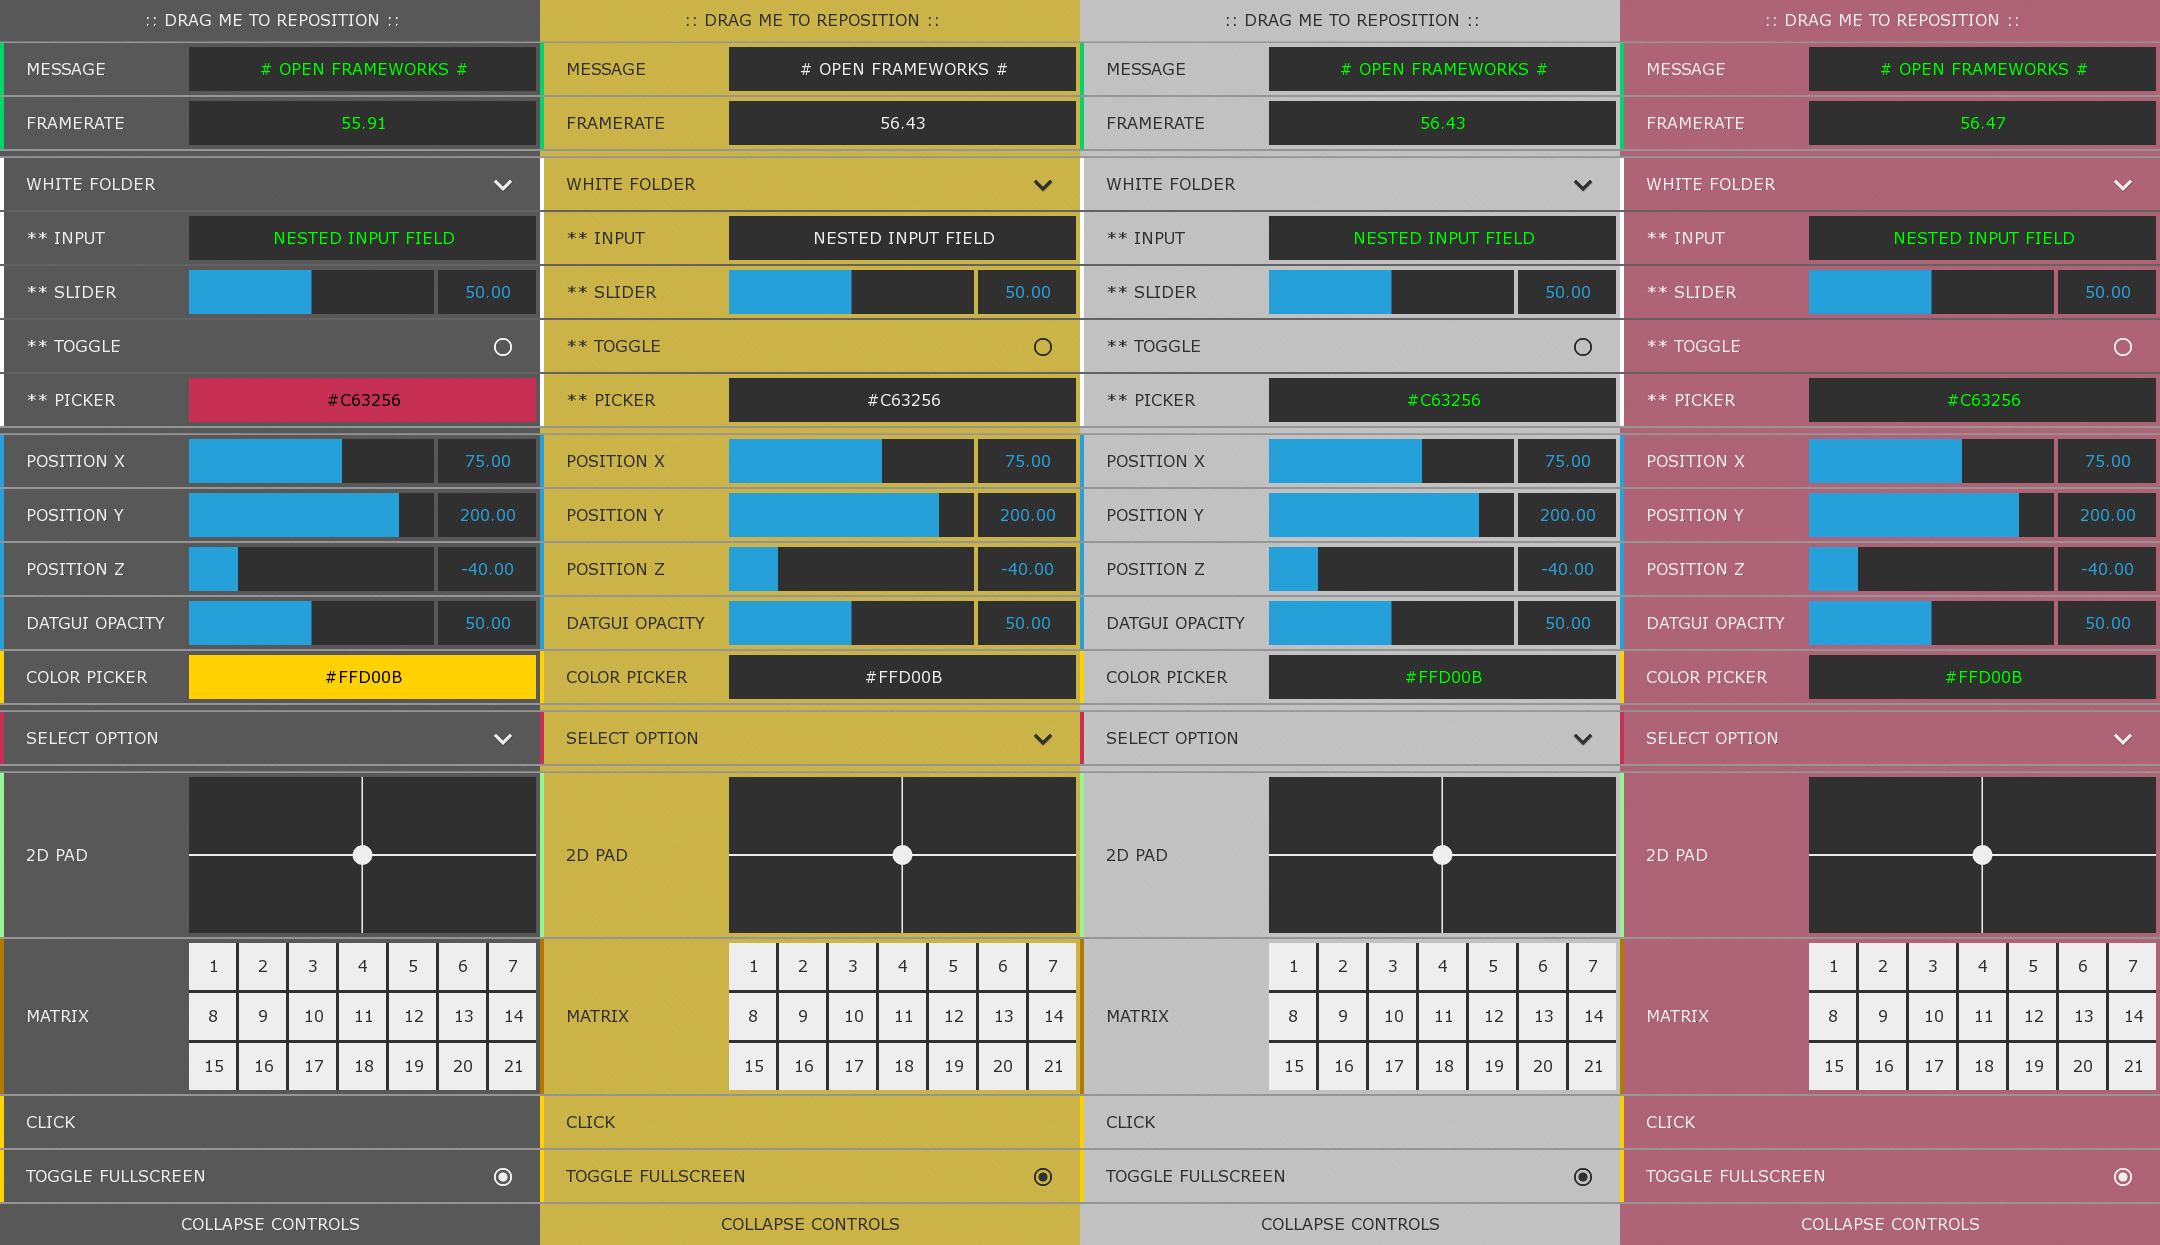
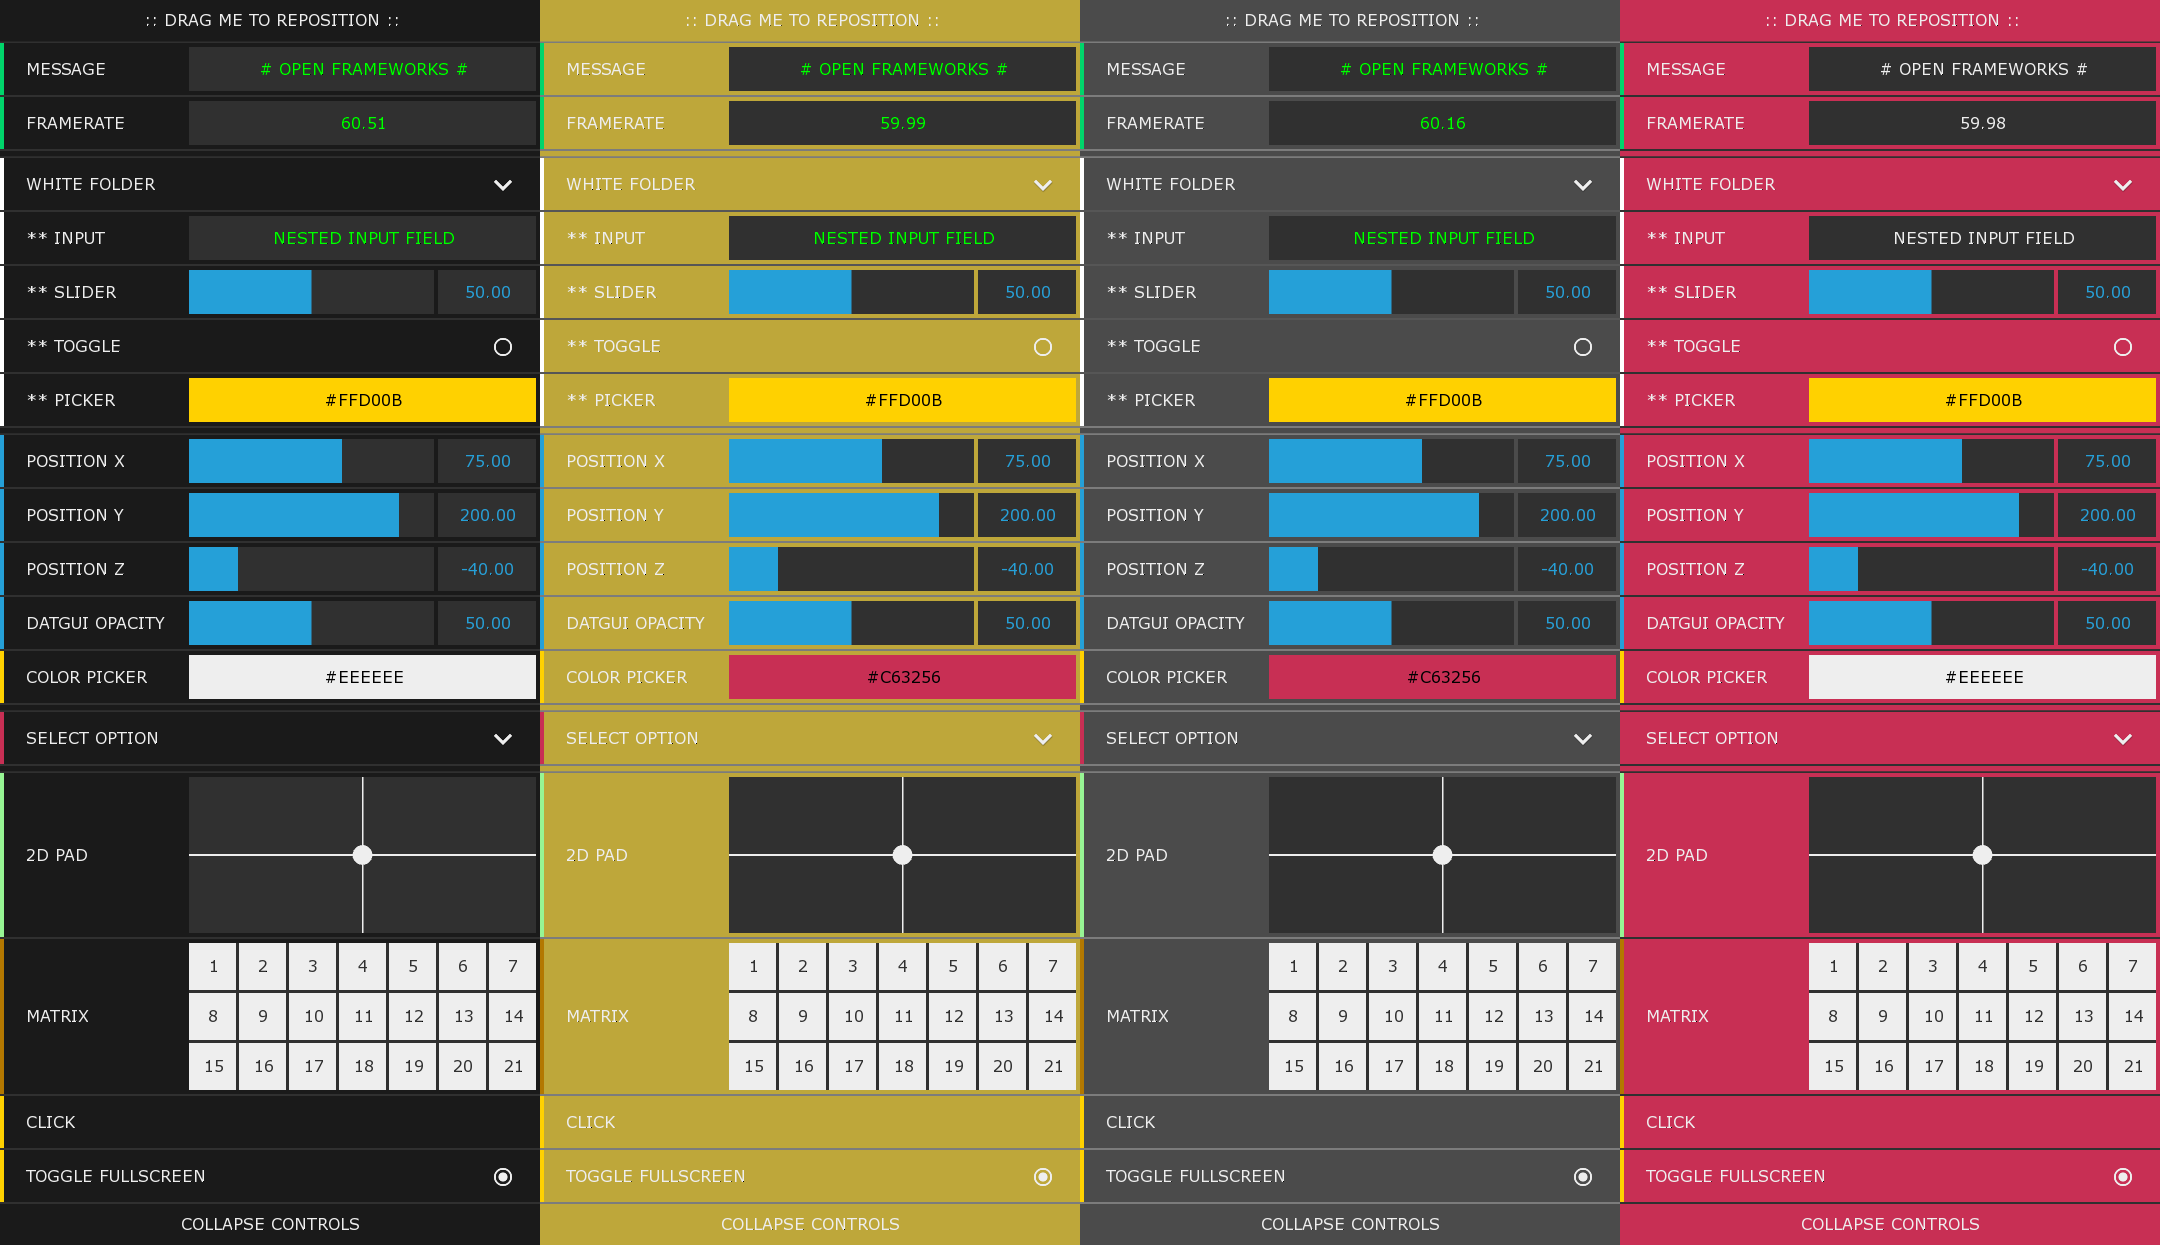
color picker templating fix

diff --git a/src/templates/ofxDatGuiTemplates.h b/src/templates/ofxDatGuiTemplates.h
@@ -33,61 +33,12 @@ class ofxDatGuiExampleCustomTemplate : public ofxDatGui2880x1800{
     
         ofxDatGuiExampleCustomTemplate()
         {
-    // look inside of ofxDatGuiTemplate for settings to override //
-            row.color.bkgd = ofColor::fromHex(0xFFD00B);
-    // don't forget to call init when you're done //
-            init();
-        }
-};
-
-class t1 : public ofxDatGui2880x1800{
-    public:
-        t1(){
-            row.color.bkgd = ofColor::fromHex(0xFFD00B);
-            row.color.label = ofColor::fromHex(0x303030);
-            textInput.color.text = ofColor::fromHex(0xEEEEEE);
-            init();
-        }
-};
-class t2 : public ofxDatGui2880x1800{
-    public:
-        t2(){
-            row.color.bkgd = ofColor::fromHex(0x2FA1D6);
-            init();
-        }
-};
-class t3 : public ofxDatGui2880x1800{
-    public:
-        t3(){
+    // look inside of ofxDatGuiTemplate for a full list of settings you can override //
             row.color.bkgd = ofColor::fromHex(0xC63256);
+            textInput.color.text = ofColor::fromHex(0xEEEEEE);
+    // and don't forget to call init when you're done //
             init();
         }
 };
-class t4 : public ofxDatGui2880x1800{
-    public:
-        t4(){
-            row.color.bkgd = ofColor::fromHex(0xeeeeee);
-            row.color.label = ofColor::fromHex(0x303030);
-            init();
-        }
-};
-//
-//            ofColor button              = ofColor::fromHex(0xFFD00B);
-//            ofColor toggle              = ofColor::fromHex(0xFFD00B);
-//            ofColor slider              = ofColor::fromHex(0x2FA1D6);
-//            ofColor textInput           = ofColor::fromHex(0x1ED36F);
-//            ofColor matrix              = ofColor::fromHex(0xB2770D);
-//            ofColor pad2d               = ofColor::fromHex(0x9AF398);
-//            ofColor dropdown            = ofColor::fromHex(0xC63256);
-//            ofColor colorPicker         = ofColor::fromHex(0xFFD00B);
-
-
-
-
-
-
-
-
-
 
 

diff --git a/example-AllComponentsGui/src/ofApp.cpp b/example-AllComponentsGui/src/ofApp.cpp
@@ -10,6 +10,8 @@ void ofApp::setup()
 // instantiate and position the gui //
     gui = new ofxDatGui( ofxDatGuiAnchor::TOP_RIGHT );
     
+//  gui->setTemplate(new ofxDatGuiExampleCustomTemplate());
+    
 // add some components //
     gui->addTextInput("MESSAGE", "# OPEN FRAMEWORKS #");
     
@@ -35,7 +37,7 @@ void ofApp::setup()
     gui->addSlider("DATGUI OPACITY", 0, 100);
     
 // and a colorpicker! //
-    gui->addColorPicker("COLOR PICKER", ofColor::fromHex(0xC63256));
+    gui->addColorPicker("COLOR PICKER", ofColor::fromHex(0xeeeeee));
     
     gui->addBreak();
 // add a dropdown menu //

diff --git a/src/templates/ofxDatGuiTemplate.h b/src/templates/ofxDatGuiTemplate.h
@@ -151,13 +151,14 @@ class ofxDatGui2880x1800 : public ofxDatGuiTemplate{
     
         ofxDatGui2880x1800()
         {
-            row.width   = 540;
+            row.width   = 540;//600
             row.height  *= 2;
             row.padding *= 2;
             row.spacing *= 2;
             row.stripeWidth *= 2;
             font.size   *= 2;
             font.highlightPadding *= 2;
+            matrix.buttonSize = 47;//53;
             init();
         }
 };

diff --git a/src/components/ofxDatGuiColorPicker.h b/src/components/ofxDatGuiColorPicker.h
@@ -81,6 +81,12 @@ class ofxDatGuiColorPicker : public ofxDatGuiTextInput {
             setTextFieldInputColor();
         }
     
+        void setTemplate(ofxDatGuiTemplate* tmplt)
+        {
+            ofxDatGuiTextInput::setTemplate(tmplt);
+            setTextFieldInputColor();
+        }
+    
         ofColor getColor()
         {
             return mColor;

diff --git a/readme.md b/readme.md
@@ -2,7 +2,7 @@
 
 **ofxDatGui** is a **simple to use**, fully customizable, high-resolution graphical user interface for [openFrameworks](http://openframeworks.cc/) inspired by the popular JavaScript [datgui](http://workshop.chromeexperiments.com/examples/gui/) interface.  
 
-[![ofxDatGui](./readme-img/ofxdatgui_03.png)](https://www.youtube.com/watch?v=IrmABSyabng)
+![ofxDatGui](./readme-img/ofxdatgui_03.png?raw=true)
 
 ##Features
 
